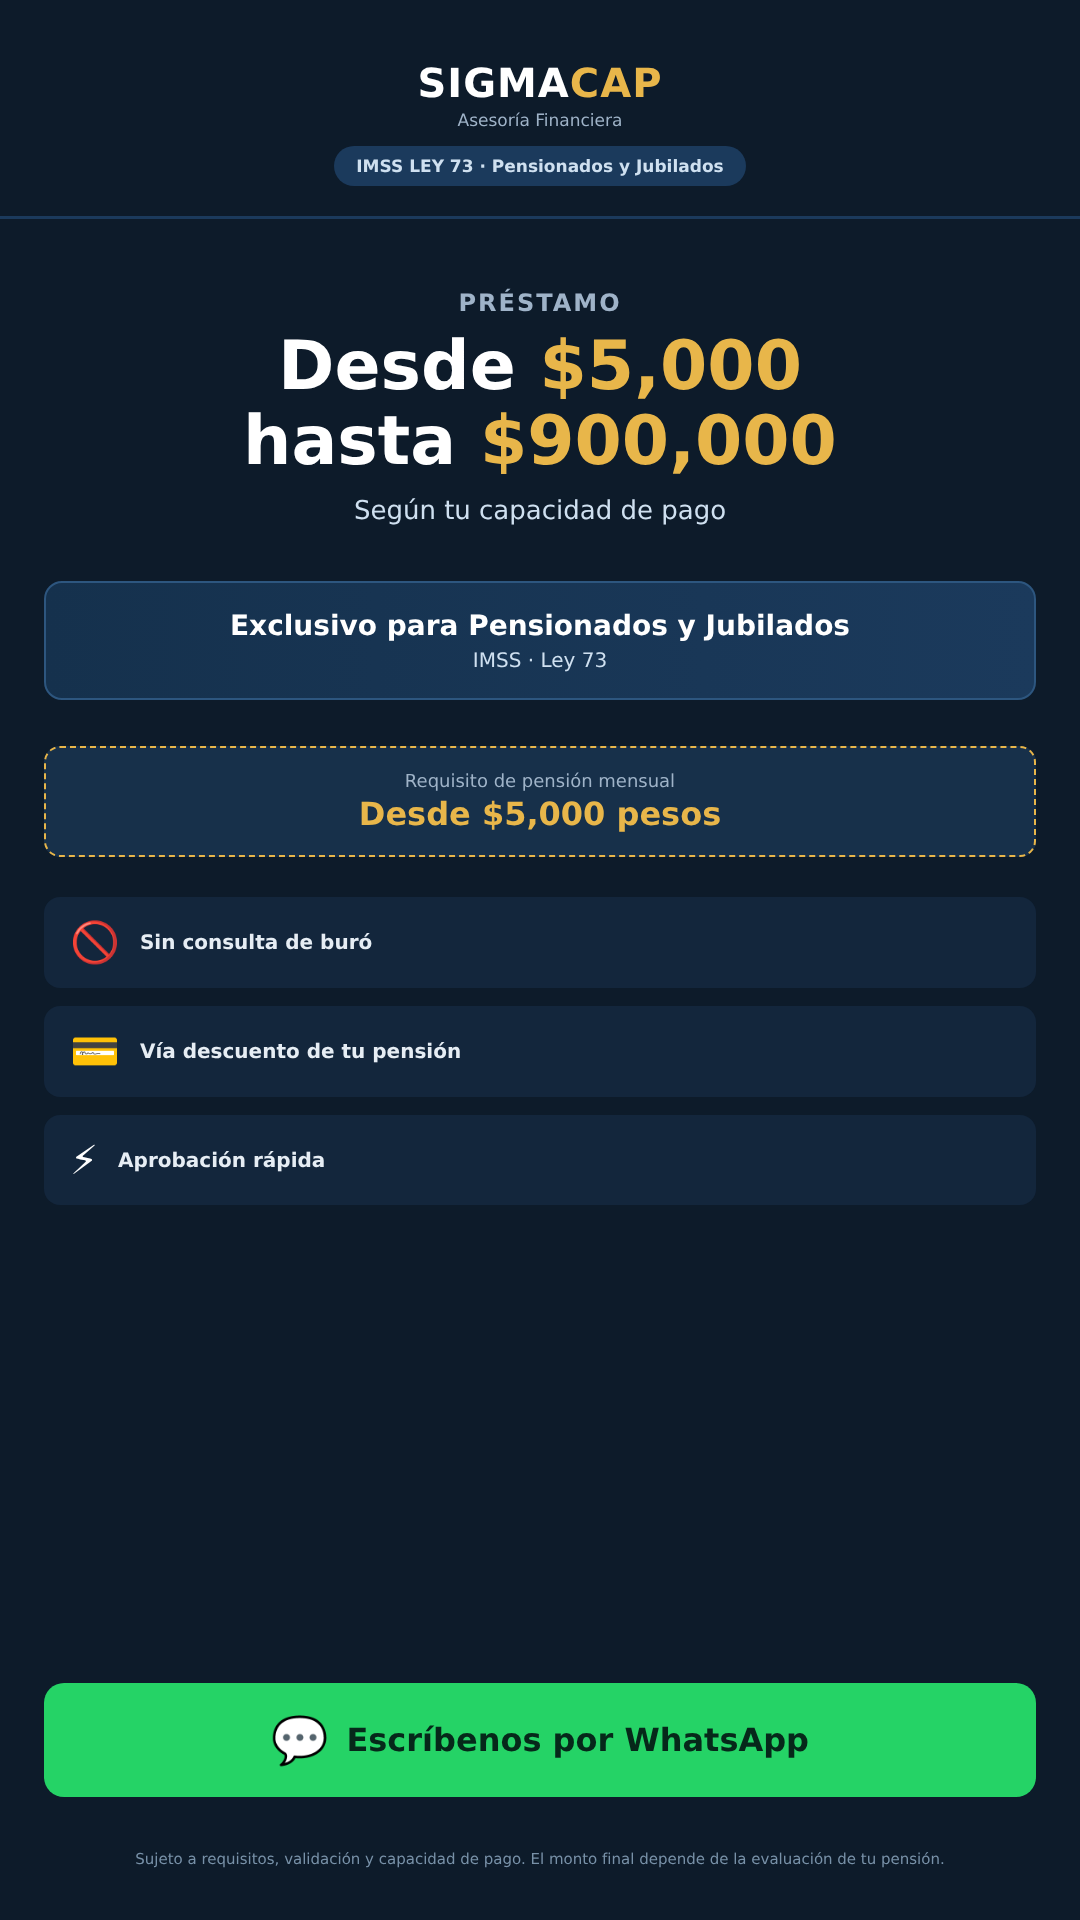
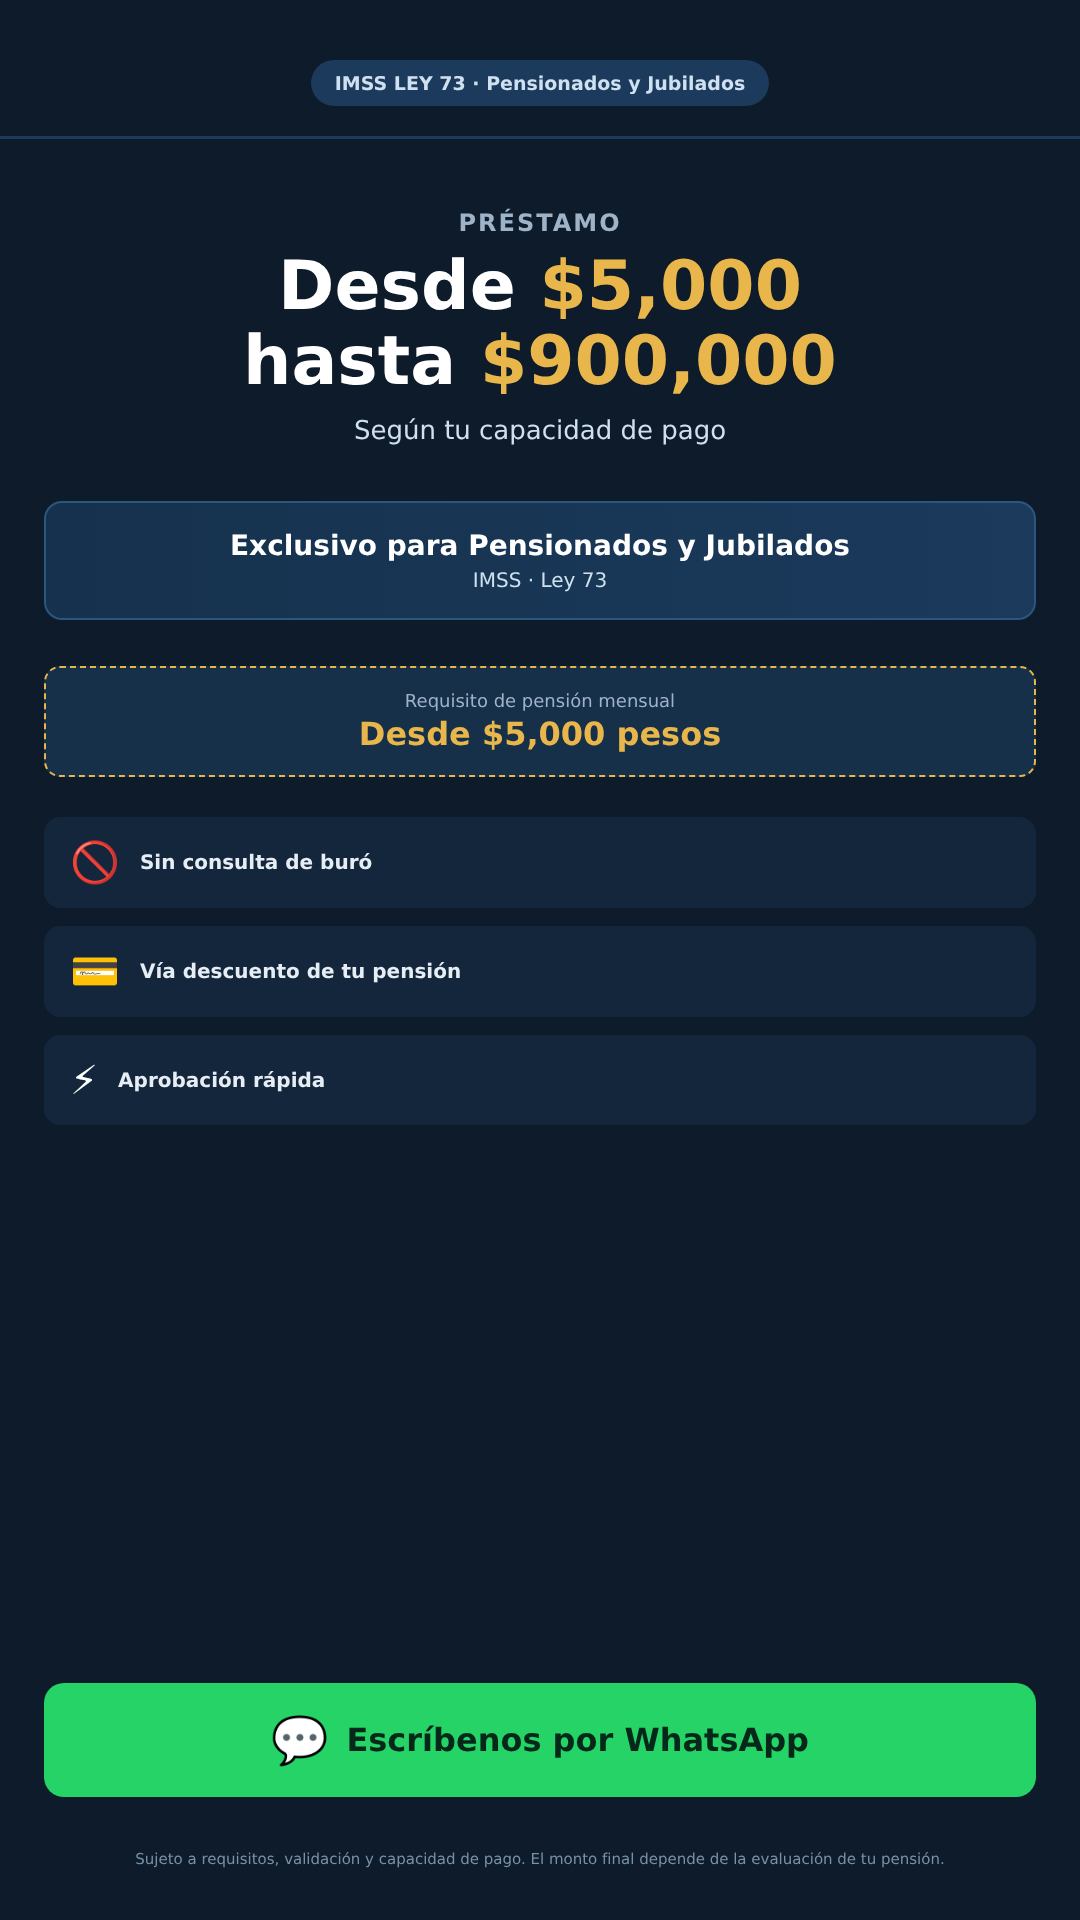
Quitar marca SIGMACAP de las imágenes de crédito Ley 73
Claude-Session: https://claude.ai/code/session_01TSxc4Bk7AxA9eVR7MomUPk

Changed region(s): [[0.0306, 0.0312, 0.9778, 0.5625], [0.1222, 0.5938, 0.2139, 0.625], [0.2444, 0.5938, 0.3056, 0.625]]

diff --git a/propuesta/credito_feed_4x5.html b/propuesta/credito_feed_4x5.html
@@ -3,11 +3,8 @@
 *{box-sizing:border-box;margin:0;padding:0}
 body{width:1080px;height:1350px;font-family:"DejaVu Sans",Arial,sans-serif;background:#0d1b2a;color:#fff}
 .wrap{height:100%;display:flex;flex-direction:column}
-.top{display:flex;align-items:center;justify-content:space-between;padding:34px 44px 22px;border-bottom:3px solid #1b3a5c}
-.logo{font-size:34px;font-weight:bold;letter-spacing:1px;color:#fff}
-.logo span{color:#e8b64a}
-.tag{font-size:15px;color:#9fb3c8;margin-top:2px}
-.badgeTop{background:#1b3a5c;color:#cfe0f0;font-size:14px;font-weight:bold;padding:8px 16px;border-radius:30px;text-align:right;line-height:1.3}
+.top{display:flex;align-items:center;justify-content:center;padding:34px 44px 22px;border-bottom:3px solid #1b3a5c}
+.badgeTop{background:#1b3a5c;color:#cfe0f0;font-size:16px;font-weight:bold;padding:10px 20px;border-radius:30px;text-align:center;line-height:1.3}
 .hero{padding:40px 44px 10px;text-align:center}
 .hero .pre{font-size:20px;color:#9fb3c8;font-weight:bold;letter-spacing:1px}
 .hero .amt{font-size:58px;font-weight:bold;color:#fff;line-height:1.08;margin-top:6px}
@@ -31,8 +28,7 @@ body{width:1080px;height:1350px;font-family:"DejaVu Sans",Arial,sans-serif;backg
 .fine{font-size:12.5px;color:#7891a8;line-height:1.4}
 </style></head><body><div class="wrap">
 <div class="top">
- <div><div class="logo">SIGMA<span>CAP</span></div><div class="tag">Asesoría Financiera</div></div>
- <div class="badgeTop">IMSS LEY 73<br>Pensionados y Jubilados</div>
+ <div class="badgeTop">IMSS LEY 73 · Pensionados y Jubilados</div>
 </div>
 
 <div class="hero">

diff --git a/propuesta/credito_story_9x16.html b/propuesta/credito_story_9x16.html
@@ -4,10 +4,7 @@
 body{width:1080px;height:1920px;font-family:"DejaVu Sans",Arial,sans-serif;background:#0d1b2a;color:#fff}
 .wrap{height:100%;display:flex;flex-direction:column}
 .top{display:flex;flex-direction:column;align-items:center;padding:60px 44px 30px;border-bottom:3px solid #1b3a5c;text-align:center}
-.logo{font-size:40px;font-weight:bold;letter-spacing:1px;color:#fff}
-.logo span{color:#e8b64a}
-.tag{font-size:17px;color:#9fb3c8;margin-top:4px}
-.badgeTop{margin-top:16px;background:#1b3a5c;color:#cfe0f0;font-size:17px;font-weight:bold;padding:10px 22px;border-radius:30px}
+.badgeTop{background:#1b3a5c;color:#cfe0f0;font-size:19px;font-weight:bold;padding:12px 24px;border-radius:30px}
 .hero{padding:70px 44px 10px;text-align:center}
 .hero .pre{font-size:24px;color:#9fb3c8;font-weight:bold;letter-spacing:2px}
 .hero .amt{font-size:68px;font-weight:bold;color:#fff;line-height:1.1;margin-top:12px}
@@ -31,7 +28,6 @@ body{width:1080px;height:1920px;font-family:"DejaVu Sans",Arial,sans-serif;backg
 .fine{font-size:15px;color:#7891a8;line-height:1.4}
 </style></head><body><div class="wrap">
 <div class="top">
- <div class="logo">SIGMA<span>CAP</span></div><div class="tag">Asesoría Financiera</div>
  <div class="badgeTop">IMSS LEY 73 · Pensionados y Jubilados</div>
 </div>
 
